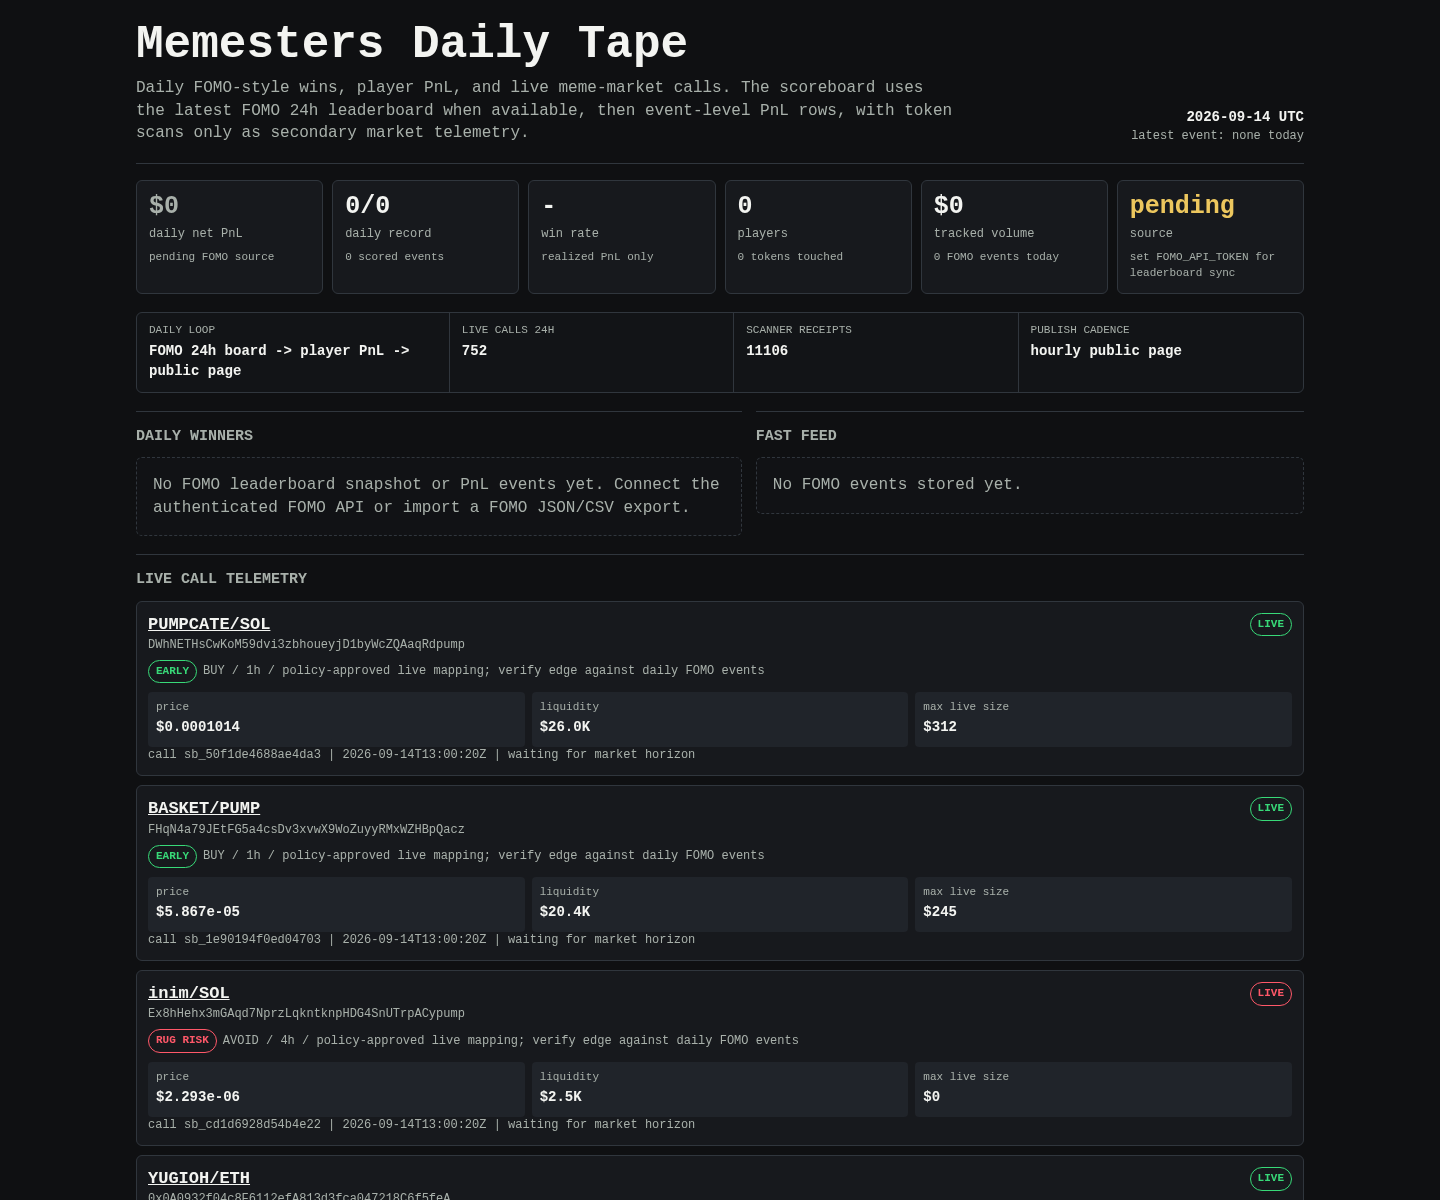
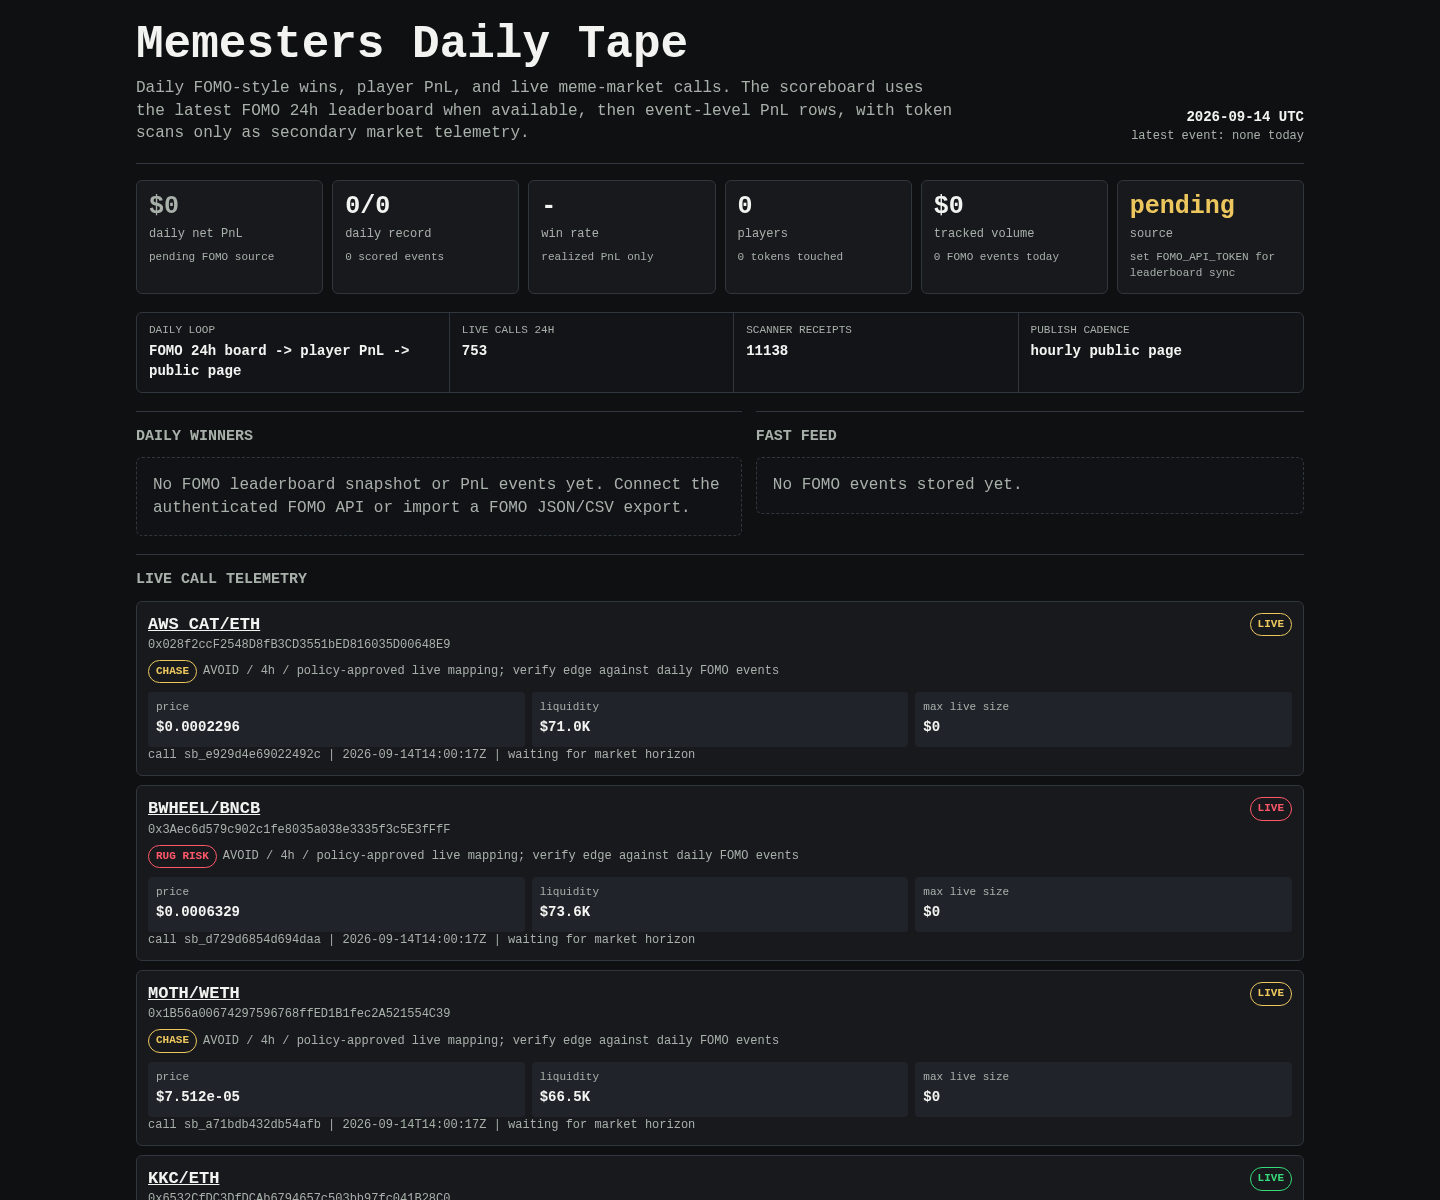
Update Memesters scoreboard

diff --git a/memesters/index.html b/memesters/index.html
@@ -149,8 +149,8 @@
 
     <div class="rail" aria-label="live operating loop">
       <div><span>daily loop</span><b>FOMO 24h board -> player PnL -> public page</b></div>
-      <div><span>live calls 24h</span><b>752</b></div>
-      <div><span>scanner receipts</span><b>11106</b></div>
+      <div><span>live calls 24h</span><b>753</b></div>
+      <div><span>scanner receipts</span><b>11138</b></div>
       <div><span>publish cadence</span><b>hourly public page</b></div>
     </div>
 
@@ -171,50 +171,29 @@
     <article class="receipt">
       <div class="receipt-head">
         <div>
-          <div class="pair"><a href="https://dexscreener.com/solana/6tyrtzehgsblnfqc5rltgs9gtykzusqtwp4y6qjsnwya">PUMPCATE/SOL</a></div>
-          <div class="addr">DWhNETHsCwKoM59dvi3zbhoueyjD1byWcZQAaqRdpump</div>
+          <div class="pair"><a href="https://dexscreener.com/robinhood/0x0ed0dcad9ee8088a7fedc5f25e83117c22091fce6318a5e6bad1a0d8010fe69a">AWS CAT/ETH</a></div>
+          <div class="addr">0x028f2ccF2548D8fB3CD3551bED816035D00648E9</div>
           <div class="addr policy-line">
-            <span class="badge early">EARLY</span>
-            <span>BUY / 1h / policy-approved live mapping; verify edge against daily FOMO events</span>
+            <span class="badge chase">CHASE</span>
+            <span>AVOID / 4h / policy-approved live mapping; verify edge against daily FOMO events</span>
           </div>
         </div>
-        <span class="badge early">LIVE</span>
+        <span class="badge chase">LIVE</span>
       </div>
       <div class="receipt-grid">
-        <div class="kv"><span>price</span><b>$0.0001014</b></div>
-        <div class="kv"><span>liquidity</span><b>$26.0K</b></div>
-        <div class="kv"><span>max live size</span><b>$312</b></div>
+        <div class="kv"><span>price</span><b>$0.0002296</b></div>
+        <div class="kv"><span>liquidity</span><b>$71.0K</b></div>
+        <div class="kv"><span>max live size</span><b>$0</b></div>
       </div>
-      <div class="outcomes">call sb_50f1de4688ae4da3 | 2026-09-14T13:00:20Z | waiting for market horizon</div>
+      <div class="outcomes">call sb_e929d4e69022492c | 2026-09-14T14:00:17Z | waiting for market horizon</div>
     </article>
     
 
     <article class="receipt">
       <div class="receipt-head">
         <div>
-          <div class="pair"><a href="https://dexscreener.com/solana/cqqttutpeyfkvhrgynrguhwt25vlertn13shiuvdgde6">BASKET/PUMP</a></div>
-          <div class="addr">FHqN4a79JEtFG5a4csDv3xvwX9WoZuyyRMxWZHBpQacz</div>
-          <div class="addr policy-line">
-            <span class="badge early">EARLY</span>
-            <span>BUY / 1h / policy-approved live mapping; verify edge against daily FOMO events</span>
-          </div>
-        </div>
-        <span class="badge early">LIVE</span>
-      </div>
-      <div class="receipt-grid">
-        <div class="kv"><span>price</span><b>$5.867e-05</b></div>
-        <div class="kv"><span>liquidity</span><b>$20.4K</b></div>
-        <div class="kv"><span>max live size</span><b>$245</b></div>
-      </div>
-      <div class="outcomes">call sb_1e90194f0ed04703 | 2026-09-14T13:00:20Z | waiting for market horizon</div>
-    </article>
-    
-
-    <article class="receipt">
-      <div class="receipt-head">
-        <div>
-          <div class="pair"><a href="https://dexscreener.com/solana/aa56oxcrys1ec3lstgdi9a1ndks7xmrhxveysp2ya459">inim/SOL</a></div>
-          <div class="addr">Ex8hHehx3mGAqd7NprzLqkntknpHDG4SnUTrpACypump</div>
+          <div class="pair"><a href="https://dexscreener.com/bsc/0xbd0eff0f3fdddbb64174020a526c35750408dee0">BWHEEL/BNCB</a></div>
+          <div class="addr">0x3Aec6d579c902c1fe8035a038e3335f3c5E3fFfF</div>
           <div class="addr policy-line">
             <span class="badge rug-risk">RUG RISK</span>
             <span>AVOID / 4h / policy-approved live mapping; verify edge against daily FOMO events</span>
@@ -223,19 +202,40 @@
         <span class="badge rug-risk">LIVE</span>
       </div>
       <div class="receipt-grid">
-        <div class="kv"><span>price</span><b>$2.293e-06</b></div>
-        <div class="kv"><span>liquidity</span><b>$2.5K</b></div>
+        <div class="kv"><span>price</span><b>$0.0006329</b></div>
+        <div class="kv"><span>liquidity</span><b>$73.6K</b></div>
         <div class="kv"><span>max live size</span><b>$0</b></div>
       </div>
-      <div class="outcomes">call sb_cd1d6928d54b4e22 | 2026-09-14T13:00:20Z | waiting for market horizon</div>
+      <div class="outcomes">call sb_d729d6854d694daa | 2026-09-14T14:00:17Z | waiting for market horizon</div>
     </article>
     
 
     <article class="receipt">
       <div class="receipt-head">
         <div>
-          <div class="pair"><a href="https://dexscreener.com/robinhood/0x1a742346655722b4ade6c3e09553c11cf3d342a81f23859311a2657f91762e7d">YUGIOH/ETH</a></div>
-          <div class="addr">0x0A0932f04c8F6112efA813d3fca047218C6f5feA</div>
+          <div class="pair"><a href="https://dexscreener.com/robinhood/0x90e8e78f31db82c2c7bd9da8dee2a3a5128ae15452e9dd2215f19b4aedc0d336">MOTH/WETH</a></div>
+          <div class="addr">0x1B56a00674297596768ffED1B1fec2A521554C39</div>
+          <div class="addr policy-line">
+            <span class="badge chase">CHASE</span>
+            <span>AVOID / 4h / policy-approved live mapping; verify edge against daily FOMO events</span>
+          </div>
+        </div>
+        <span class="badge chase">LIVE</span>
+      </div>
+      <div class="receipt-grid">
+        <div class="kv"><span>price</span><b>$7.512e-05</b></div>
+        <div class="kv"><span>liquidity</span><b>$66.5K</b></div>
+        <div class="kv"><span>max live size</span><b>$0</b></div>
+      </div>
+      <div class="outcomes">call sb_a71bdb432db54afb | 2026-09-14T14:00:17Z | waiting for market horizon</div>
+    </article>
+    
+
+    <article class="receipt">
+      <div class="receipt-head">
+        <div>
+          <div class="pair"><a href="https://dexscreener.com/robinhood/0x11d9ca9023fbf9422532c35dec54aba1a8f09c19427ab927d0946f98d3db5ff2">KKC/ETH</a></div>
+          <div class="addr">0x6532CfDC3DfDCAb6794657c503bb97fc041B28C0</div>
           <div class="addr policy-line">
             <span class="badge early">EARLY</span>
             <span>BUY / 1h / policy-approved live mapping; verify edge against daily FOMO events</span>
@@ -244,19 +244,19 @@
         <span class="badge early">LIVE</span>
       </div>
       <div class="receipt-grid">
-        <div class="kv"><span>price</span><b>$4.205e-05</b></div>
-        <div class="kv"><span>liquidity</span><b>$19.0K</b></div>
-        <div class="kv"><span>max live size</span><b>$163</b></div>
+        <div class="kv"><span>price</span><b>$5.862e-05</b></div>
+        <div class="kv"><span>liquidity</span><b>$22.4K</b></div>
+        <div class="kv"><span>max live size</span><b>$268</b></div>
       </div>
-      <div class="outcomes">call sb_77aab677a2ea4724 | 2026-09-14T13:00:19Z | waiting for market horizon</div>
+      <div class="outcomes">call sb_1199b4a0a7f54b7e | 2026-09-14T14:00:17Z | waiting for market horizon</div>
     </article>
     
 
     <article class="receipt">
       <div class="receipt-head">
         <div>
-          <div class="pair"><a href="https://dexscreener.com/solana/cm4z54q2ezhubcgqmipkk8wywgx81f8qyz2fsetaisja">BabyCate/CATE</a></div>
-          <div class="addr">EeKgKFUdCRK4qyhVQRwjC2gWaT8UvyFrFfFtCA3gpQS9</div>
+          <div class="pair"><a href="https://dexscreener.com/ethereum/0x11a8a677470acc16c3380a859b06b03d9eb22324284d25fb8602151ca122462d">NI/ETH</a></div>
+          <div class="addr">0x460e445B29a124B168151622426C867d19761111</div>
           <div class="addr policy-line">
             <span class="badge early">EARLY</span>
             <span>BUY / 1h / policy-approved live mapping; verify edge against daily FOMO events</span>
@@ -265,40 +265,40 @@
         <span class="badge early">LIVE</span>
       </div>
       <div class="receipt-grid">
-        <div class="kv"><span>price</span><b>$4.731e-05</b></div>
-        <div class="kv"><span>liquidity</span><b>$18.5K</b></div>
-        <div class="kv"><span>max live size</span><b>$222</b></div>
+        <div class="kv"><span>price</span><b>$2.317e-05</b></div>
+        <div class="kv"><span>liquidity</span><b>$14.7K</b></div>
+        <div class="kv"><span>max live size</span><b>$69</b></div>
       </div>
-      <div class="outcomes">call sb_ab8d68db62b44a7b | 2026-09-14T13:00:19Z | waiting for market horizon</div>
+      <div class="outcomes">call sb_922e9d87aba74aca | 2026-09-14T14:00:17Z | waiting for market horizon</div>
     </article>
     
 
     <article class="receipt">
       <div class="receipt-head">
         <div>
-          <div class="pair"><a href="https://dexscreener.com/robinhood/0x01c8ed9480e43898c32de468906cb11b9aee3f3f340fa3dabb6e26a2bbb5c86b">AI PEPE/ETH</a></div>
-          <div class="addr">0xD27957C95b484C6bba5A1586C3aCB162C31D5B68</div>
+          <div class="pair"><a href="https://dexscreener.com/robinhood/0x34e7bfaa1ade6915ec827c862d8fb48e64e5580eddeb5c75fd2a251ec1c0f5b6">market/USDG</a></div>
+          <div class="addr">0x024c1F42e1aD70f2182F2f9BC491823bc4e3d90a</div>
           <div class="addr policy-line">
-            <span class="badge early">EARLY</span>
-            <span>BUY / 1h / policy-approved live mapping; verify edge against daily FOMO events</span>
+            <span class="badge chase">CHASE</span>
+            <span>AVOID / 4h / policy-approved live mapping; verify edge against daily FOMO events</span>
           </div>
         </div>
-        <span class="badge early">LIVE</span>
+        <span class="badge chase">LIVE</span>
       </div>
       <div class="receipt-grid">
-        <div class="kv"><span>price</span><b>$5.595e-05</b></div>
-        <div class="kv"><span>liquidity</span><b>$21.9K</b></div>
-        <div class="kv"><span>max live size</span><b>$127</b></div>
+        <div class="kv"><span>price</span><b>$4.313e-05</b></div>
+        <div class="kv"><span>liquidity</span><b>$30.9K</b></div>
+        <div class="kv"><span>max live size</span><b>$0</b></div>
       </div>
-      <div class="outcomes">call sb_0d33dfd53c7b4982 | 2026-09-14T13:00:19Z | waiting for market horizon</div>
+      <div class="outcomes">call sb_a48c754f1cbd4386 | 2026-09-14T14:00:17Z | waiting for market horizon</div>
     </article>
     
 
     <article class="receipt">
       <div class="receipt-head">
         <div>
-          <div class="pair"><a href="https://dexscreener.com/robinhood/0xd0fa8441a8202aaae2df16cf9c8c7c2cfd54996d7f01e38e70e75d28a108e6df">SYND/ETH</a></div>
-          <div class="addr">0x599BB1b05A1fE8E0C692d9bAef9Db74313404C51</div>
+          <div class="pair"><a href="https://dexscreener.com/robinhood/0x8e2768076b3083cce389f4e3deb4138c23361fa17aa75640ea75ebd8d25ca6c5">BOUNTY/ETH</a></div>
+          <div class="addr">0xDAd2Bf55E9f232a63664a423F7d9cf58250aF88e</div>
           <div class="addr policy-line">
             <span class="badge rug-risk">RUG RISK</span>
             <span>AVOID / 4h / policy-approved live mapping; verify edge against daily FOMO events</span>
@@ -307,19 +307,40 @@
         <span class="badge rug-risk">LIVE</span>
       </div>
       <div class="receipt-grid">
-        <div class="kv"><span>price</span><b>$1.251e-05</b></div>
-        <div class="kv"><span>liquidity</span><b>$10.4K</b></div>
+        <div class="kv"><span>price</span><b>$1.674e-05</b></div>
+        <div class="kv"><span>liquidity</span><b>$12.0K</b></div>
         <div class="kv"><span>max live size</span><b>$0</b></div>
       </div>
-      <div class="outcomes">call sb_19ba53672502408a | 2026-09-14T13:00:19Z | waiting for market horizon</div>
+      <div class="outcomes">call sb_173d3f185feb41df | 2026-09-14T14:00:17Z | waiting for market horizon</div>
     </article>
     
 
     <article class="receipt">
       <div class="receipt-head">
         <div>
-          <div class="pair"><a href="https://dexscreener.com/bsc/0x83f6f0dde731de62f51b94e9ad16c75b5742b626">宇宙所/BNCB</a></div>
-          <div class="addr">0xed382A6c02FA5b80F294d939B8FFB60645c77777</div>
+          <div class="pair"><a href="https://dexscreener.com/robinhood/0x982459266793728c5104802ee524959ceab32a82">Charlie/WETH</a></div>
+          <div class="addr">0xFbE5D95e0A3a2d1C12f60cF893811c6d7FA295ea</div>
+          <div class="addr policy-line">
+            <span class="badge chase">CHASE</span>
+            <span>AVOID / 4h / policy-approved live mapping; verify edge against daily FOMO events</span>
+          </div>
+        </div>
+        <span class="badge chase">LIVE</span>
+      </div>
+      <div class="receipt-grid">
+        <div class="kv"><span>price</span><b>$0.0001752</b></div>
+        <div class="kv"><span>liquidity</span><b>$77.7K</b></div>
+        <div class="kv"><span>max live size</span><b>$0</b></div>
+      </div>
+      <div class="outcomes">call sb_ecaf09700b224a22 | 2026-09-14T14:00:17Z | waiting for market horizon</div>
+    </article>
+    
+
+    <article class="receipt">
+      <div class="receipt-head">
+        <div>
+          <div class="pair"><a href="https://dexscreener.com/solana/hkerqgmf1w6ys3wzkhhwrjodfwjd5x4kb3ubzsuwpzcz">GRADY/SOL</a></div>
+          <div class="addr">2YrEhbVAKGojhZn2SYjQc7EYLixrBLHmqFjME69Gpump</div>
           <div class="addr policy-line">
             <span class="badge rug-risk">RUG RISK</span>
             <span>AVOID / 4h / policy-approved live mapping; verify edge against daily FOMO events</span>
@@ -328,53 +349,32 @@
         <span class="badge rug-risk">LIVE</span>
       </div>
       <div class="receipt-grid">
-        <div class="kv"><span>price</span><b>$1.803e-05</b></div>
-        <div class="kv"><span>liquidity</span><b>$12.5K</b></div>
+        <div class="kv"><span>price</span><b>$2.33e-06</b></div>
+        <div class="kv"><span>liquidity</span><b>$2.4K</b></div>
         <div class="kv"><span>max live size</span><b>$0</b></div>
       </div>
-      <div class="outcomes">call sb_220ba1fc87c644aa | 2026-09-14T13:00:19Z | waiting for market horizon</div>
+      <div class="outcomes">call sb_1d20f1fe18064903 | 2026-09-14T13:45:23Z | waiting for market horizon</div>
     </article>
     
 
     <article class="receipt">
       <div class="receipt-head">
         <div>
-          <div class="pair"><a href="https://dexscreener.com/robinhood/0x5824bb0a6b0451881e7400e330ce7163514f8685b00dfb280b67f085b9b1f874">CROSSPAD/ETH</a></div>
-          <div class="addr">0xaC46193Ff2Cb638bcFD02520E124A3E2C9228774</div>
+          <div class="pair"><a href="https://dexscreener.com/robinhood/0xe8546875356f00f7358210e7984145421b58b8728503c906a9c531446dd03c2c">CLOSE/GME</a></div>
+          <div class="addr">0x110c63b1F7cc8D1aB79180e9Df8cB80C037644dE</div>
           <div class="addr policy-line">
-            <span class="badge early">EARLY</span>
-            <span>BUY / 1h / policy-approved live mapping; verify edge against daily FOMO events</span>
-          </div>
-        </div>
-        <span class="badge early">LIVE</span>
-      </div>
-      <div class="receipt-grid">
-        <div class="kv"><span>price</span><b>$8.866e-05</b></div>
-        <div class="kv"><span>liquidity</span><b>$27.6K</b></div>
-        <div class="kv"><span>max live size</span><b>$331</b></div>
-      </div>
-      <div class="outcomes">call sb_b0d76769290c409d | 2026-09-14T12:45:17Z | waiting for market horizon</div>
-    </article>
-    
-
-    <article class="receipt">
-      <div class="receipt-head">
-        <div>
-          <div class="pair"><a href="https://dexscreener.com/bsc/0xa62a23f35adf66d00365283e3a2f6bad4dff1ead">Be Like/WBNB</a></div>
-          <div class="addr">0x37603281b303Dc47b98c93308564F86Bf6427777</div>
-          <div class="addr policy-line">
-            <span class="badge rug-risk">RUG RISK</span>
+            <span class="badge chase">CHASE</span>
             <span>AVOID / 4h / policy-approved live mapping; verify edge against daily FOMO events</span>
           </div>
         </div>
-        <span class="badge rug-risk">LIVE</span>
+        <span class="badge chase">LIVE</span>
       </div>
       <div class="receipt-grid">
-        <div class="kv"><span>price</span><b>$2.765e-06</b></div>
-        <div class="kv"><span>liquidity</span><b>$5.2K</b></div>
+        <div class="kv"><span>price</span><b>$0.0002094</b></div>
+        <div class="kv"><span>liquidity</span><b>$34.6K</b></div>
         <div class="kv"><span>max live size</span><b>$0</b></div>
       </div>
-      <div class="outcomes">call sb_796a947bfe6348b0 | 2026-09-14T12:45:17Z | waiting for market horizon</div>
+      <div class="outcomes">call sb_a56641f494674030 | 2026-09-14T13:45:22Z | waiting for market horizon</div>
     </article>
     
     </section>
